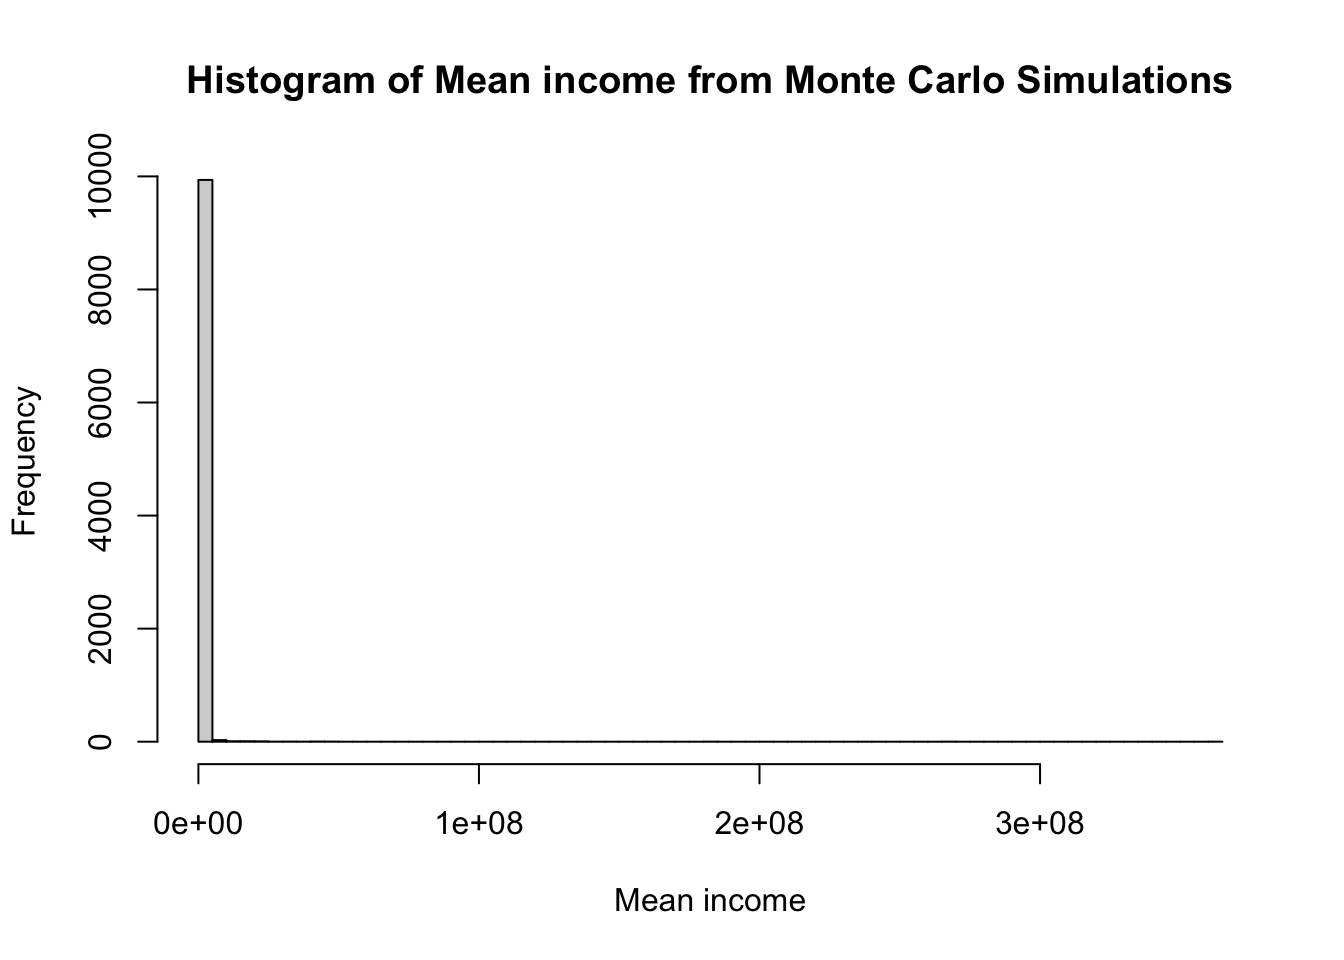
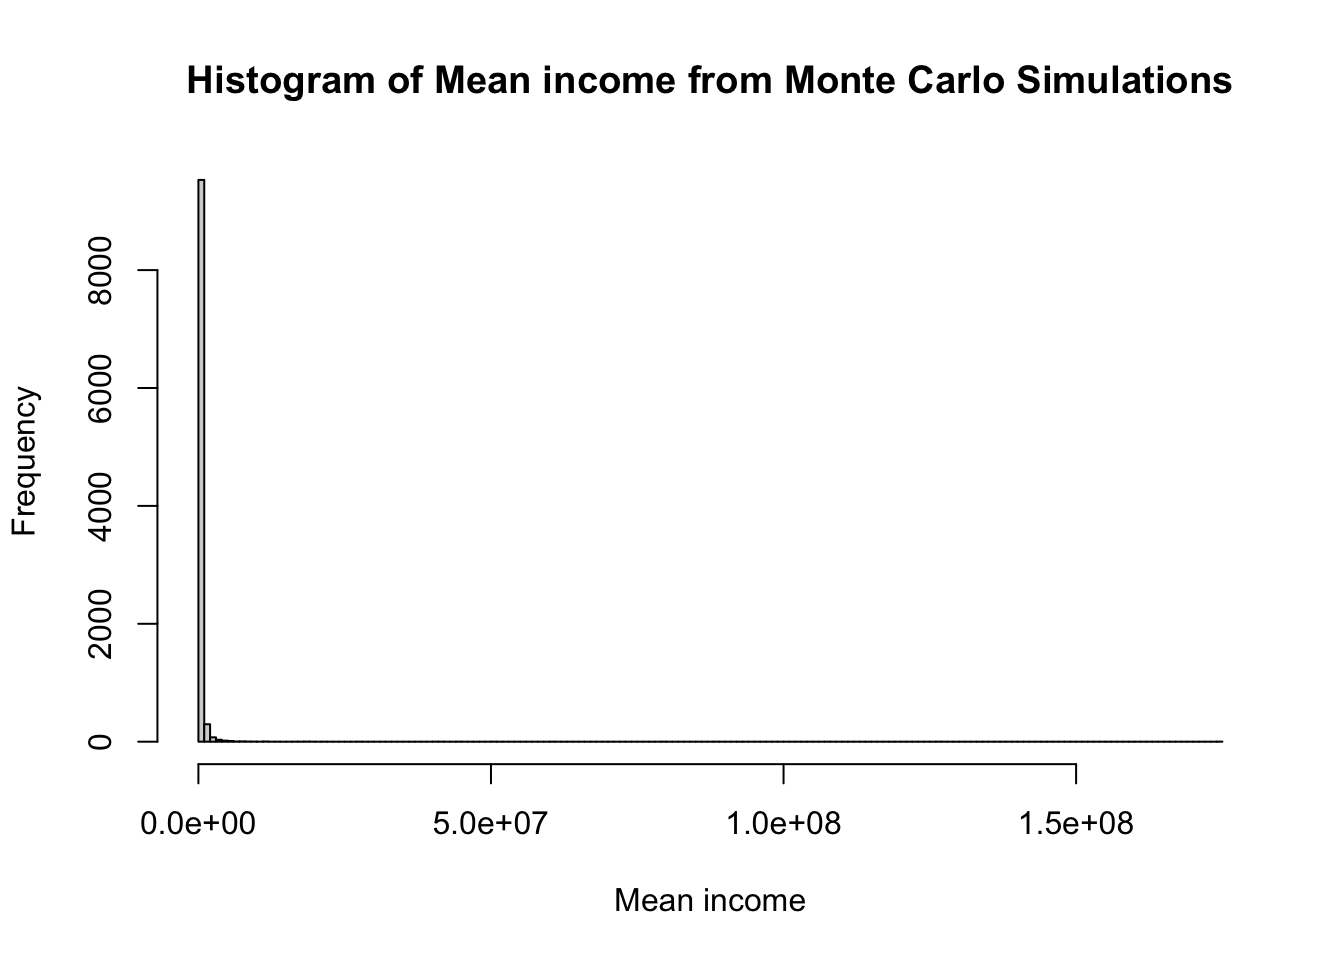
option 4

diff --git a/docs/Catallactics/Personal/pricing.html b/docs/Catallactics/Personal/pricing.html
@@ -772,7 +772,37 @@ cookieconsent.run({
 <div id="quarto-sidebar-glass" class="quarto-sidebar-collapse-item" data-bs-toggle="collapse" data-bs-target=".quarto-sidebar-collapse-item"></div>
 <!-- margin-sidebar -->
     <div id="quarto-margin-sidebar" class="sidebar margin-sidebar"><div class="quarto-margin-header"><div class="margin-header-item">
-<p>subscribe.html</p>
+<div id="mc_embed_shell">
+      <link href="//cdn-images.mailchimp.com/embedcode/classic-061523.css" rel="stylesheet" type="text/css">
+  <style type="text/css">
+        #mc_embed_signup{background:#fff; false;clear:left; font:14px Helvetica,Arial,sans-serif; width: px;}
+        /* Add your own Mailchimp form style overrides in your site stylesheet or in this style block.
+           We recommend moving this block and the preceding CSS link to the HEAD of your HTML file. */
+</style>
+<div id="mc_embed_signup">
+    <form action="https://knotes.us17.list-manage.com/subscribe/post?u=cbd11e712b45e98cdaab2dd4d&amp;id=aeaca1e768&amp;f_id=00dbc2e1f0" method="post" id="mc-embedded-subscribe-form" name="mc-embedded-subscribe-form" class="validate" target="_blank">
+        <div id="mc_embed_signup_scroll"><h2>Subscribe</h2>
+            <div class="indicates-required"><span class="asterisk">*</span> indicates required</div>
+            <div class="mc-field-group"><label for="mce-EMAIL">Email Address <span class="asterisk">*</span></label><input type="email" name="EMAIL" class="required email" id="mce-EMAIL" required="" value=""></div>
+        <div id="mce-responses" class="clear foot">
+            <div class="response" id="mce-error-response" style="display: none;"></div>
+            <div class="response" id="mce-success-response" style="display: none;"></div>
+        </div>
+    <div aria-hidden="true" style="position: absolute; left: -5000px;">
+        /* real people should not fill this in and expect good things - do not remove this or risk form bot signups */
+        <input type="text" name="b_cbd11e712b45e98cdaab2dd4d_aeaca1e768" tabindex="-1" value="">
+    </div>
+        <div class="optionalParent">
+            <div class="clear foot">
+                <input type="submit" name="subscribe" id="mc-embedded-subscribe" class="button" value="Subscribe">
+                
+            </div>
+        </div>
+    </div>
+</form>
+</div>
+<script type="text/javascript" src="//s3.amazonaws.com/downloads.mailchimp.com/js/mc-validate.js"></script><script type="text/javascript">(function($) {window.fnames = new Array(); window.ftypes = new Array();fnames[0]='EMAIL';ftypes[0]='email';fnames[1]='FNAME';ftypes[1]='text';fnames[2]='LNAME';ftypes[2]='text';fnames[3]='ADDRESS';ftypes[3]='address';fnames[4]='PHONE';ftypes[4]='phone';fnames[5]='BIRTHDAY';ftypes[5]='birthday';}(jQuery));var $mcj = jQuery.noConflict(true);</script></div>
+
 </div></div>
         <nav id="TOC" role="doc-toc" class="toc-active">
     <h2 id="toc-title">On this page</h2>
@@ -892,7 +922,7 @@ attr(,"class")
 <details class="code-fold">
 <summary>Code</summary>
 <div class="sourceCode cell-code" id="cb6"><pre class="sourceCode r code-with-copy"><code class="sourceCode r"><span id="cb6-1"><a href="#cb6-1" aria-hidden="true" tabindex="-1"></a>closing_price<span class="ot">&lt;-</span>closing_price</span>
-<span id="cb6-2"><a href="#cb6-2" aria-hidden="true" tabindex="-1"></a>strike <span class="ot">&lt;-</span> closing_price <span class="sc">*</span> <span class="fl">0.9</span>  <span class="co"># Strike price of the option</span></span>
+<span id="cb6-2"><a href="#cb6-2" aria-hidden="true" tabindex="-1"></a>strike <span class="ot">&lt;-</span> closing_price <span class="sc">*</span> <span class="fl">0.85</span>  <span class="co"># Strike price of the option</span></span>
 <span id="cb6-3"><a href="#cb6-3" aria-hidden="true" tabindex="-1"></a>time_to_expiry <span class="ot">&lt;-</span> <span class="dv">120</span><span class="sc">/</span><span class="dv">365</span>  <span class="co"># Time to expiration in years</span></span>
 <span id="cb6-4"><a href="#cb6-4" aria-hidden="true" tabindex="-1"></a>risk_free_rate <span class="ot">&lt;-</span> <span class="fl">0.071</span>   <span class="co"># Risk-free interest rate</span></span>
 <span id="cb6-5"><a href="#cb6-5" aria-hidden="true" tabindex="-1"></a></span>
@@ -923,10 +953,10 @@ attr(,"class")
 <div class="sourceCode cell-code" id="cb12"><pre class="sourceCode r code-with-copy"><code class="sourceCode r"><span id="cb12-1"><a href="#cb12-1" aria-hidden="true" tabindex="-1"></a>strike</span></code><button title="Copy to Clipboard" class="code-copy-button"><i class="bi"></i></button></pre></div>
 </details>
 <div class="cell-output cell-output-stdout">
-<pre><code>[1] 20277.63</code></pre>
+<pre><code>[1] 19151.09</code></pre>
 </div>
 </div>
-<p>Price of a <strong>4 month 12 delta option</strong> is 163 for the given strike price</p>
+<p>Price of a <strong>4 month 12 delta option</strong> is 54 for the given strike price</p>
 
 
 </section>

diff --git a/docs/posts/montecarlo.html b/docs/posts/montecarlo.html
@@ -1011,7 +1011,7 @@ Income distribution is not normal
 </details>
 <div class="cell-output cell-output-stdout">
 <pre><code>     Min.   1st Qu.    Median      Mean   3rd Qu.      Max. 
-   213126    295498    342891    610719    439069 361844283 </code></pre>
+   211935    296066    343899    559858    437529 174263596 </code></pre>
 </div>
 <details open="" class="code-fold">
 <summary>Code</summary>
@@ -1019,7 +1019,7 @@ Income distribution is not normal
 </details>
 <div class="cell-output cell-output-stdout">
 <pre><code>   Min. 1st Qu.  Median    Mean 3rd Qu.    Max. 
-  62139   64074   64494   64504   64929   66760 </code></pre>
+  62067   64059   64497   64506   64943   67187 </code></pre>
 </div>
 <details open="" class="code-fold">
 <summary>Code</summary>
@@ -1027,7 +1027,7 @@ Income distribution is not normal
 </details>
 <div class="cell-output cell-output-stdout">
 <pre><code>     Min.   1st Qu.    Median      Mean   3rd Qu.      Max. 
-9.904e+05 3.305e+06 5.686e+06 3.157e+07 1.190e+07 3.615e+10 </code></pre>
+1.014e+06 3.346e+06 5.651e+06 2.656e+07 1.191e+07 1.740e+10 </code></pre>
 </div>
 </div>
 </section>

diff --git a/docs/Revision notes/Diagrams/diagrams.html b/docs/Revision notes/Diagrams/diagrams.html
@@ -1291,7 +1291,7 @@ window.document.addEventListener("DOMContentLoaded", function (event) {
 </div>
   </div>
 </footer>
-<script>var lightboxQuarto = GLightbox({"descPosition":"bottom","closeEffect":"zoom","loop":false,"openEffect":"zoom","selector":".lightbox"});
+<script>var lightboxQuarto = GLightbox({"openEffect":"zoom","closeEffect":"zoom","descPosition":"bottom","selector":".lightbox","loop":false});
 window.onload = () => {
   lightboxQuarto.on('slide_before_load', (data) => {
     const { slideIndex, slideNode, slideConfig, player, trigger } = data;
